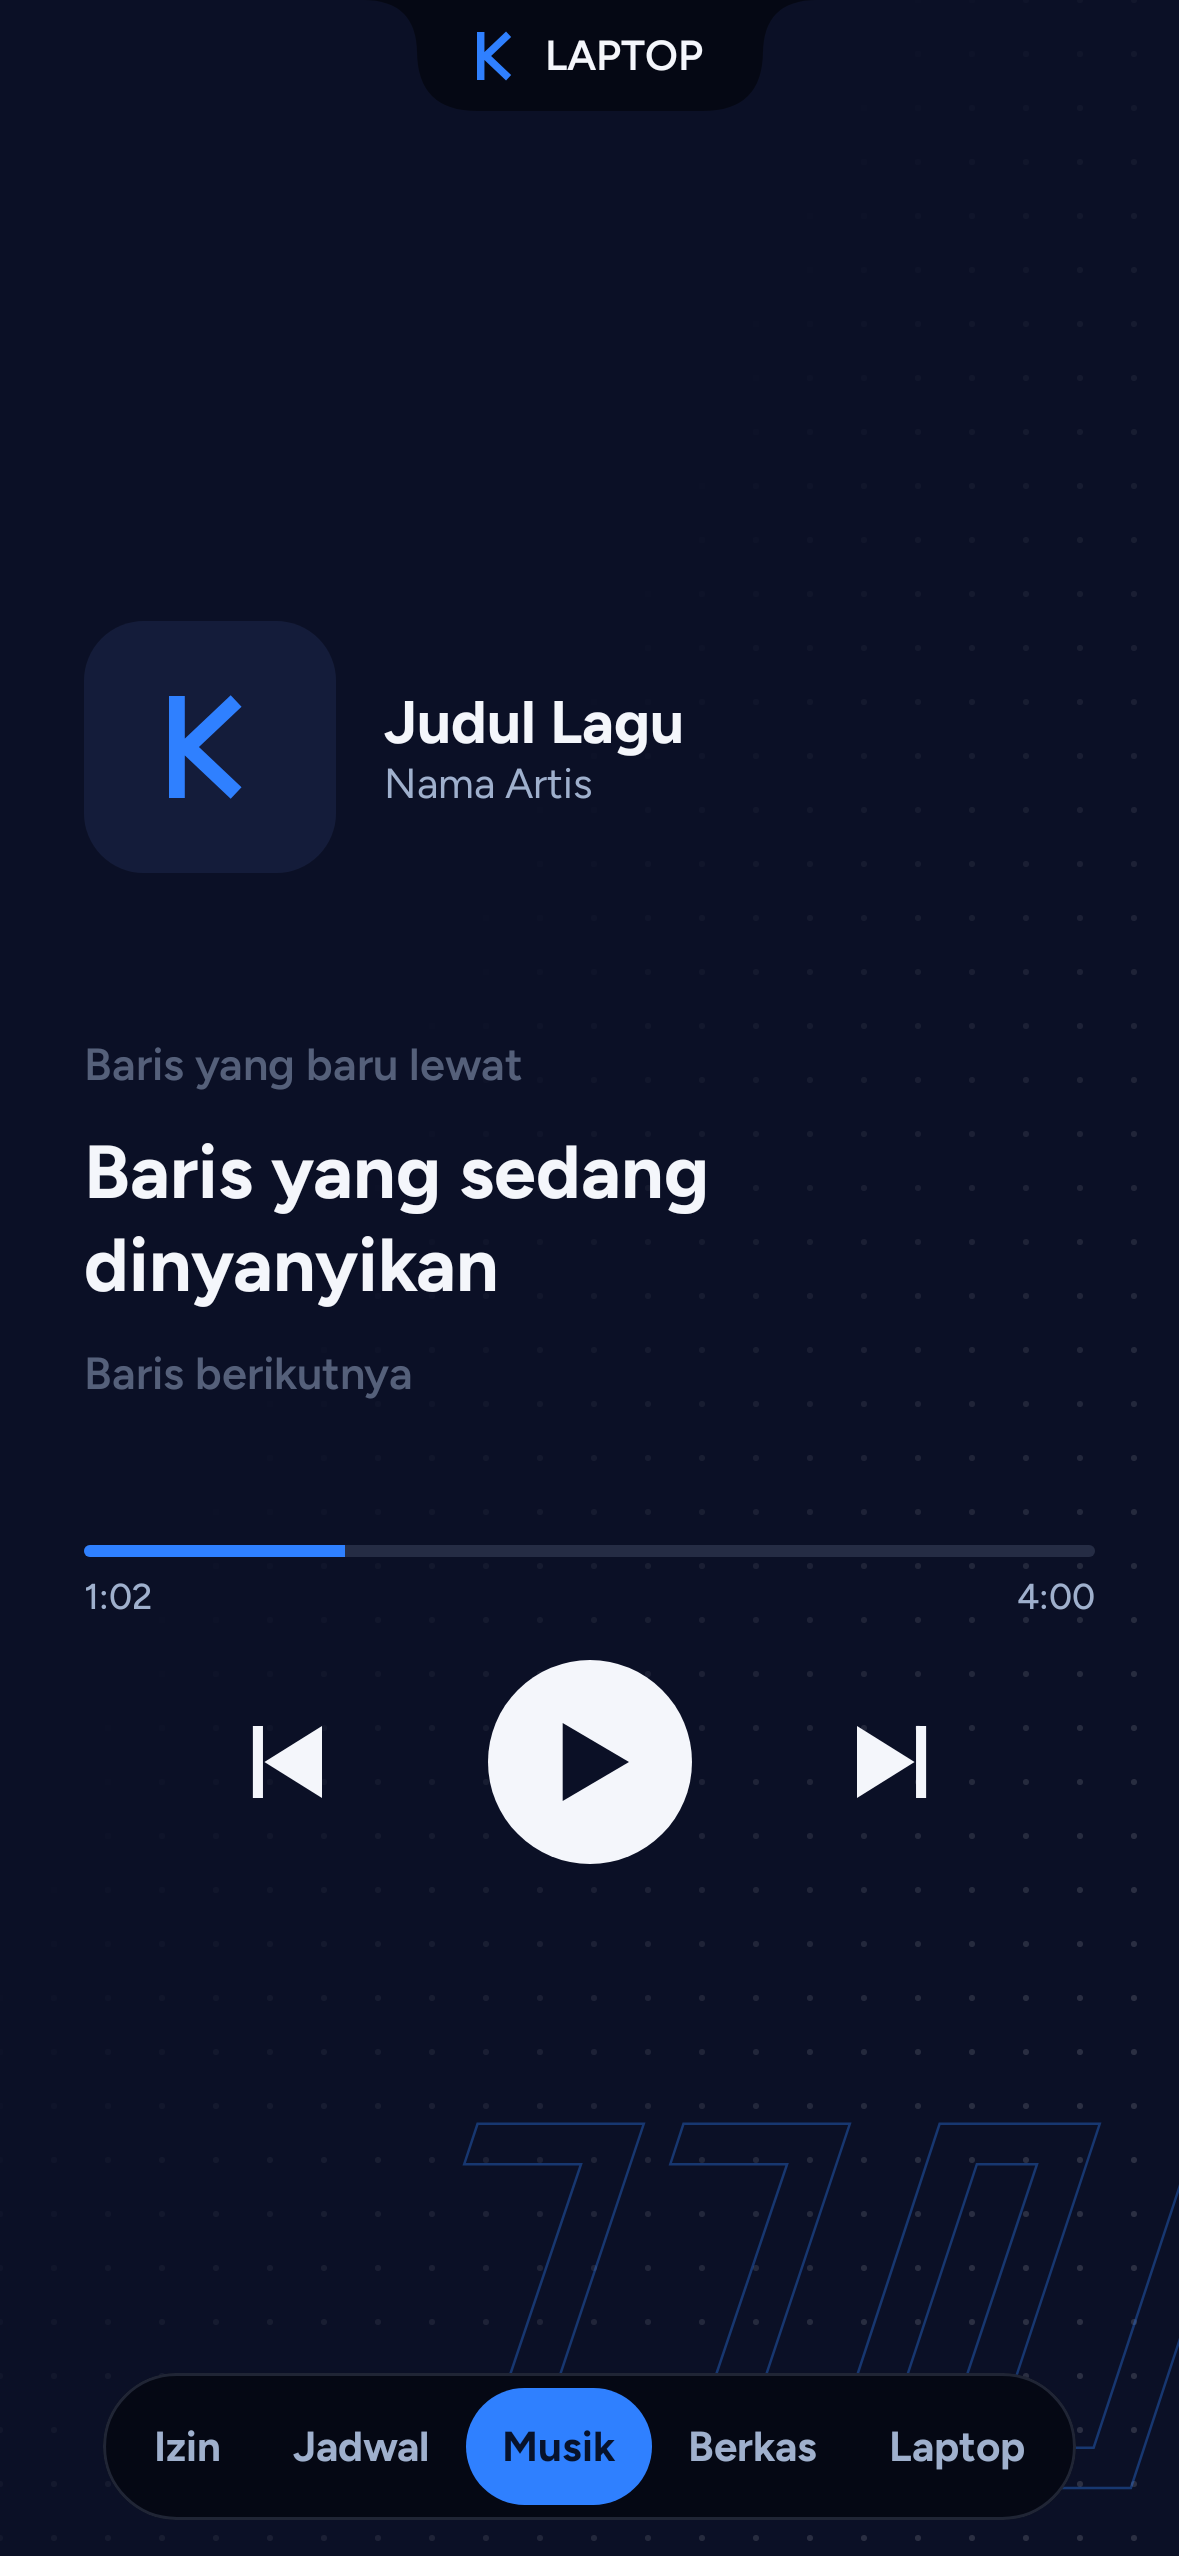
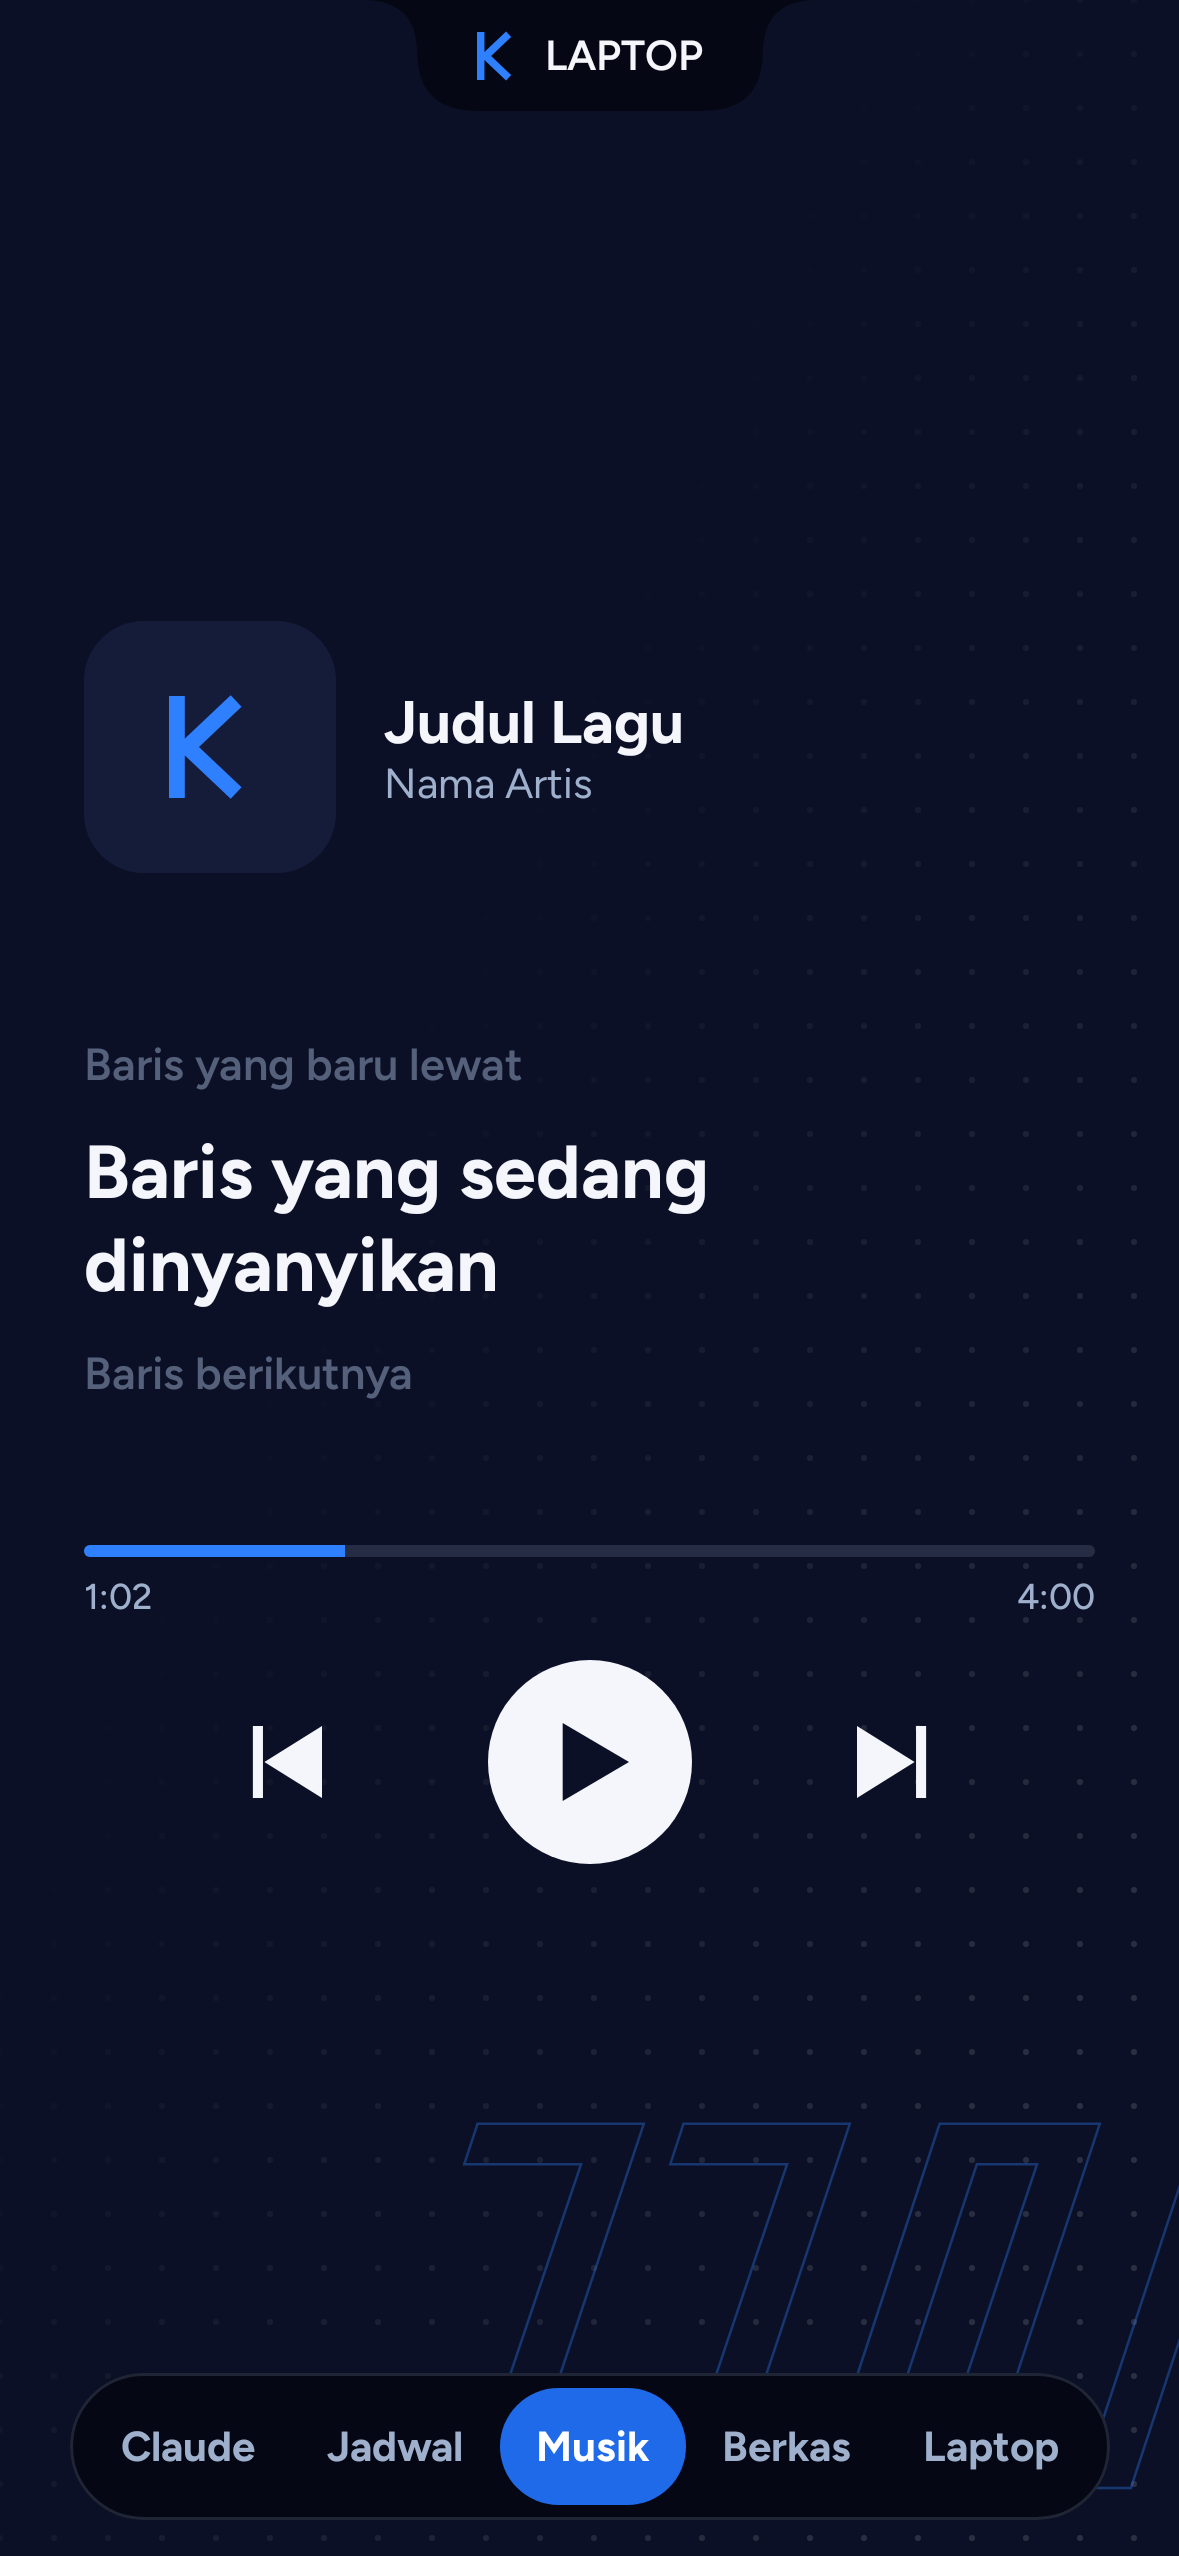
Refresh README and screenshots

diff --git a/README.md b/README.md
@@ -1,114 +1,102 @@
 # KALA
 
-Sakiceup, Sagala Katempo.
+**Sakiceup, sagala katempo.** Sekedip mata, semua kelihatan.
 
-KALA adalah notch di tepi atas layar Windows. Jadwal sholat, lagu yang sedang diputar, meeting, dan notifikasi terlihat tanpa pindah jendela.
+KALA adalah notch di tepi atas layar Windows, dengan aplikasi pendamping di Android. Jadwal sholat, lirik lagu, meeting, dan izin Claude Code terlihat tanpa pindah jendela.
 
-![Notch KALA](screens/notch.png)
-
-Arahkan kursor atau klik notch untuk membuka panel. Pindah tab dengan swipe dua jari di touchpad, dock di bawah panel, atau tombol kiri-kanan. Tekan `Ctrl + Alt + K` untuk menyembunyikan atau memunculkannya.
+![Panel Home KALA](screens/home.png)
 
 ## Pasang
 
-Unduh `KALA_x.y.z_x64-setup.exe` dari halaman [Releases](https://github.com/rezamahendraaa23/KALA/releases/latest), lalu jalankan.
+| Perangkat | Unduh | Catatan |
+| --- | --- | --- |
+| Windows | `KALA_x.y.z_x64-setup.exe` dari [Releases](https://github.com/rezamahendraaa23/KALA/releases/latest) | Belum memakai sertifikat code signing. Kalau SmartScreen muncul, pilih **More info**, lalu **Run anyway**. |
+| Android 10+ | [`KALA-android.apk`](https://github.com/rezamahendraaa23/KALA/releases/latest/download/KALA-android.apk) | Dipasang di luar Play Store, jadi Android bisa memperingatkan. |
 
-Installer belum memakai sertifikat code signing, jadi Windows SmartScreen bisa menampilkan peringatan. Pilih **More info**, lalu **Run anyway**.
+Keduanya memberi tahu saat ada versi baru. Di laptop, pembaruan dipasang dari Pengaturan > Sistem. Di HP, lewat bar **Perbarui** atau tombol **Cek pembaruan** di tab Laptop.
 
-Setelah terpasang, KALA memberi tahu saat ada versi baru. Pembaruan dipasang dari Pengaturan > Sistem.
+**Cara pakai:** arahkan kursor atau klik notch untuk membuka panel. Pindah tab dengan scroll mouse, swipe dua jari, dock di bawah panel, atau tombol kiri-kanan. `Ctrl + Alt + K` menyembunyikan dan memunculkan notch.
 
-## Fitur
-
-### Home
-
-Jam, ringkasan sholat, meeting, dan lagu, plus satu garis waktu untuk hari ini.
-
-![Home](screens/home.png)
+## Di laptop
 
 ### Sholat
 
-Jadwal harian per kota dari MyQuran, termasuk Imsak dan Terbit. Waktu yang sudah lewat bisa ditandai sudah sholat. Pengingat muncul 5 sampai 30 menit sebelumnya dan saat waktunya masuk. Langit di tab ini mengikuti cuaca kota pilihanmu dari Open-Meteo: matahari, awan, hujan, atau petir, lalu bulan dan bintang saat malam.
+Jadwal harian per kota dari MyQuran, termasuk Imsak dan Terbit, dengan pengingat 5 sampai 30 menit sebelumnya. Langitnya mengikuti cuaca kota pilihanmu dari Open-Meteo: matahari, awan, hujan, atau petir, lalu bulan dan bintang saat malam.
 
-![Sholat](screens/sholat.png)
+![Tab Sholat](screens/sholat.png)
 
 ### Musik
 
-Mengikuti pemutar yang terdaftar di Windows, seperti Spotify dan browser. Bisa putar, jeda, ganti lagu, geser posisi, dan atur volume. Lirik sinkron dicari dari LRCLIB, QQ Music, NetEase, KuGou, dan lyrics.ovh. Tombol komentar di panel Musik menampilkan lirik di panel dan di notch; kalau dimatikan, notch hanya menampilkan equalizer.
+Mengikuti pemutar yang terdaftar di Windows, seperti Spotify dan browser. Lirik sinkron dicari dari LRCLIB, QQ Music, NetEase, KuGou, dan lyrics.ovh. Tombol komentar menampilkan lirik di panel dan notch; kalau dimatikan, notch hanya menampilkan equalizer.
 
-![Musik](screens/musik.png)
+![Tab Musik](screens/musik.png)
 
 ### Agenda
 
-Membaca kalender Lark lewat CalDAV, tanpa membuat aplikasi di Developer Console. Hanya membaca, tidak mengubah jadwal. Password didapat dari Lark: Settings > Calendar > CalDAV sync. CalDAV hanya mengirim kode ruangan, jadi nama lengkapnya bisa diisi sendiri di Pengaturan > Jadwal Lark.
+Membaca kalender Lark lewat CalDAV, tanpa membuat aplikasi di Developer Console, dan tidak mengubah jadwal. Password didapat dari Lark: Settings > Calendar > CalDAV sync. CalDAV hanya mengirim kode ruangan, jadi nama lengkapnya bisa diisi di Pengaturan > Jadwal Lark.
 
-### Notifikasi
-
-Notifikasi Windows tampil di notch dan tersimpan sebagai riwayat per aplikasi. Ada mode Jangan Ganggu, dan aplikasi tertentu bisa dibisukan.
+![Tab Agenda](screens/agenda.png)
 
 ### Fokus
 
-Pomodoro dengan mode fokus, rehat, dan rehat panjang. Timer tetap terlihat di notch saat panel tertutup. Selama sesi fokus, notifikasi ditahan dan tetap masuk riwayat, sedangkan izin Claude Code tetap muncul.
+Pomodoro dengan mode fokus, rehat, dan rehat panjang. Selama sesi fokus, notifikasi ditahan dan tetap masuk riwayat, sedangkan izin Claude Code tetap muncul.
 
-![Fokus](screens/fokus.png)
+![Tab Fokus](screens/fokus.png)
 
 ### Kirim file
 
-Scan QR dari HP di Wi-Fi yang sama untuk mengirim file dua arah. File dari HP masuk ke `Downloads\KALA`.
+Kalau HP tersambung lewat aplikasi, tab ini langsung siap. Perangkat lain cukup memindai QR di Wi-Fi yang sama. File dari HP masuk ke `Downloads\KALA`.
 
-![Kirim file](screens/kirim.png)
+![Tab Kirim](screens/kirim.png)
 
-### Izin Claude Code
+### Yang lain
 
-Permintaan izin Claude Code di VS Code bisa dijawab dari notch. Fitur ini mati sampai dinyalakan di Pengaturan > Sistem.
+- **Izin Claude Code:** permintaan izin di VS Code bisa dijawab dari notch. Mati sampai dinyalakan di Pengaturan > Sistem.
+- **Notifikasi:** notifikasi Windows tampil di notch dan tersimpan sebagai riwayat per aplikasi. Tab-nya bisa dimunculkan di Pengaturan > Tab & Navigasi.
+- **Penanda singkat:** animasi saat Caps Lock atau mode hening berubah, dan peringatan kalau CPU atau RAM di atas 90% selama satu menit.
+- **Tampilan:** bentuk, posisi, ukuran, warna, transparansi, urutan tab, dan isi notch bisa diatur.
 
-![Izin Claude Code](screens/izin.png)
+![Pengaturan Tampilan](screens/pengaturan.png)
 
-## Aplikasi Android
+## Di HP
 
-Unduh `KALA-android.apk` dari halaman [Releases](https://github.com/rezamahendraaa23/KALA/releases/latest), pasang, lalu pindai QR dari Pengaturan > Sistem > Hubungkan HP. HP dan laptop harus di Wi-Fi yang sama.
+Di laptop, buka Pengaturan > Sistem > **Hubungkan HP**, lalu pindai QR dari aplikasi. HP dan laptop harus di Wi-Fi yang sama.
 
 <p>
   <img src="screens/android-izin.png" width="240" alt="Izin Claude Code di HP">
-  <img src="screens/android-jadwal.png" width="240" alt="Jadwal di HP">
-  <img src="screens/android-musik.png" width="240" alt="Musik di HP">
+  <img src="screens/android-jadwal.png" width="240" alt="Jadwal dan langit di HP">
+  <img src="screens/android-musik.png" width="240" alt="Musik dan lirik di HP">
 </p>
 
 - **Izin Claude Code:** perintah tampil utuh dan harus digeser untuk mengizinkan. Bisa juga dijawab dari notifikasi setelah HP dibuka.
-- **Baca dan balas Claude:** mati sampai dinyalakan di Pengaturan > Sistem. HP bisa membaca hasil sesi dan melanjutkannya dengan sidik jari. Balasan dari HP tampil di HP, tidak di panel VS Code yang sedang terbuka. Tiap perintah yang bisa mengubah sesuatu harus diizinkan dulu, dan tidak dijawab berarti ditolak.
 - **Izinkan otomatis:** aktif 8 jam selama HP tersambung. Perintah yang dikenali berisiko, seperti hapus file dan `git push`, tetap ditanya, tapi daftar itu tidak menangkap semuanya.
-- **Jadwal:** waktu sholat dan meeting hari ini, plus pengingat meeting di HP.
-- **Musik:** putar, jeda, ganti lagu, dan lirik sinkron.
+- **Baca dan balas Claude:** mati sampai dinyalakan di laptop. Sesi dibuka dengan sidik jari. Balasan dari HP tampil di HP, tidak di panel VS Code yang sedang terbuka. Tiap perintah yang bisa mengubah sesuatu harus diizinkan dulu, dan tidak dijawab berarti ditolak.
+- **Jadwal dan musik:** waktu sholat, cuaca, meeting hari ini, pengingat meeting, kontrol lagu, dan lirik sinkron.
 - **Berkas dan clipboard:** kirim dua arah, termasuk lewat menu Bagikan di Android.
-- **Sambung lagi:** setelah diputus, tekan Sambung lagi di HP lalu izinkan di notch. Tidak perlu pindai ulang.
-- **Pembaruan:** aplikasi memberi tahu saat ada versi baru di Releases.
+- **Sambung lagi:** setelah diputus, tekan Sambung lagi di HP lalu izinkan di notch, tanpa pindai ulang.
 
-Permintaan izin, jadwal, musik, dan clipboard terenkripsi. Isi berkas yang dikirim tidak.
+## Data
 
-## Pengaturan
+Pengaturan, riwayat notifikasi, dan jadwal tersimpan di laptop. Password CalDAV dan kunci HP disimpan terenkripsi dengan akun Windows. Data yang keluar dari laptop hanya:
 
-Bentuk menempel atau melayang, posisi, ukuran, warna, transparansi, blur, urutan tab, dan gaya ikon baterai bisa diubah. Isi kiri, tengah, dan kanan notch bisa dipilih: jam, tanggal, baterai, sholat, meeting, CPU, RAM, internet, atau maskot.
-
-![Pengaturan isi notch](screens/pengaturan-isi.png)
-
-![Pengaturan tampilan](screens/pengaturan-tampilan.png)
+| Data | Ke mana |
+| --- | --- |
+| Kota yang dipilih | MyQuran dan Open-Meteo |
+| Judul, artis, album, dan durasi lagu | Penyedia lirik |
+| Permintaan kalender | Server CalDAV Lark, kalau dihubungkan |
+| Pemeriksaan versi baru | GitHub |
+| Jadwal, lagu, clipboard, izin, dan transkrip Claude yang dinyalakan | HP yang kamu hubungkan, lewat Wi-Fi lokal dan terenkripsi |
+| Isi berkas yang dikirim | Perangkat tujuan, lewat Wi-Fi lokal dan **tidak terenkripsi** |
 
 ## Batasan
 
 - Dikembangkan dan diuji di Windows 11. Windows 10 belum diuji.
-- Notifikasi hanya tertangkap dari aplikasi yang memakai notifikasi Windows. Aplikasi dengan pop-up sendiri tidak ikut.
-- Lokasi meeting mengikuti data CalDAV dari Lark, yang bisa lebih singkat dari nama di aplikasi Lark.
-- KuGou dan NetEase bukan API resmi, jadi sewaktu-waktu bisa berhenti bekerja.
-- Kirim file tidak terenkripsi. Pakai hanya di Wi-Fi yang dipercaya.
-- Windows Firewall akan meminta izin saat Kirim file pertama kali dipakai.
+- Fitur HP hanya jalan di Wi-Fi yang sama, dan laptop harus menyala.
+- Notifikasi hanya tertangkap dari aplikasi yang memakai notifikasi Windows.
+- Nama ruangan dari Lark hanya berupa kode sampai kamu melengkapinya.
+- QQ Music, NetEase, dan KuGou bukan API resmi, jadi sewaktu-waktu bisa berhenti bekerja.
+- Windows Firewall akan meminta izin saat Kirim file atau HP pertama kali dipakai.
 
-## Data
-
-Pengaturan, riwayat notifikasi, dan jadwal tersimpan di laptop. Password CalDAV disimpan terenkripsi dengan akun Windows. Data yang keluar hanya:
-
-- Kota yang dipilih, ke MyQuran.
-- Nama dan koordinat kota yang dipilih, ke Open-Meteo, untuk cuaca.
-- Judul, artis, album, dan durasi lagu, ke penyedia lirik.
-- Permintaan kalender, ke server CalDAV Lark, kalau dihubungkan.
-- Pemeriksaan versi baru, ke GitHub.
-- Jadwal, lagu yang diputar, clipboard, dan permintaan izin, ke HP yang kamu hubungkan, hanya lewat Wi-Fi lokal.
+Tangkapan layar memakai jadwal dan lagu contoh.
 
 Dibuat oleh Reza Mahendra.
